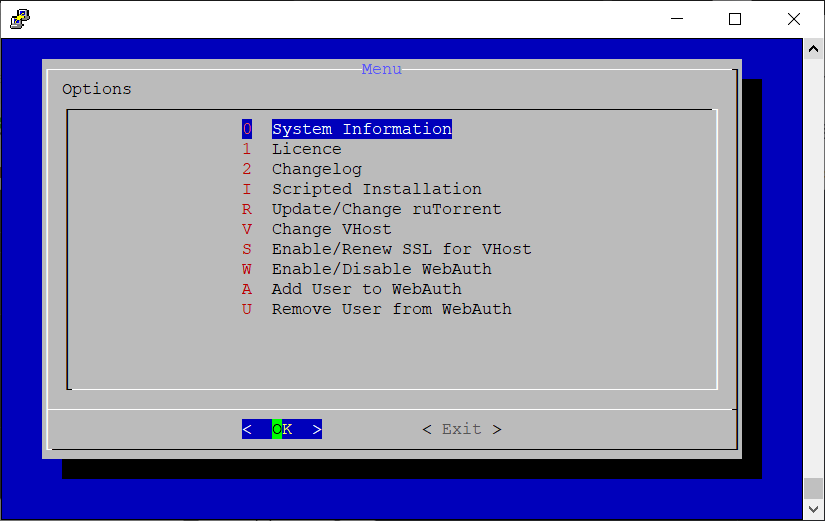
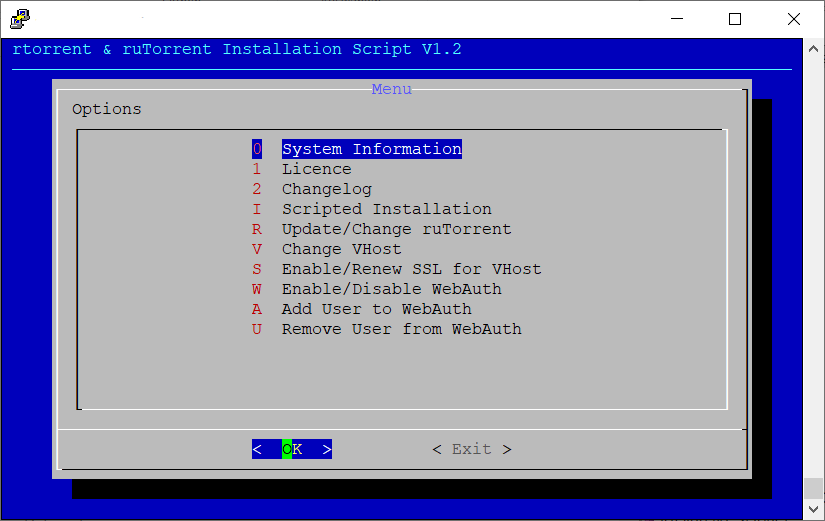
Update to Version 1.2
* Add to Script Version on menu page
* Cleaning the code, made dialog windows more equally
* Add some missing response messages
* Bugfix edit rtorrent.rc (fullmenu)

Changed region(s): [[0.0303, 0.0614, 1.0, 1.0], [0.2727, 0.215, 0.6667, 0.6449]]

diff --git a/README.md b/README.md
@@ -1,5 +1,5 @@
 # rru-torrent-install-script
-A menu based rtorrent &amp; rutorrent script
+A menu based rtorrent &amp; rutorrent installation script
 
 ![Logo](https://github.com/MarkusLange/r_ru-torrent-install-script/blob/main/screenshots/menu.PNG)
 
@@ -12,12 +12,12 @@ make it executable:
 start the GUI with:
 `sudo ./rrutorrent-install-script.bash`
 
-This is the first release of this script and the first of it's kind a GUI based (dialog) installation for rtorrent and rutorrent, this script is losely based on the work of:
+This script is the first of it's kind a GUI based (dialog) installation scrip for rtorrent and rutorrent, it is losely based on the work of:
 - https://github.com/Kerwood/Rtorrent-Auto-Install
 - https://github.com/Bercik1337/rt-auto-install
 - https://github.com/arakasi72/rtinst
 
-This script does not work with the scripts above for upgrades or updates
+This script does not work with the scripts above for upgrades or updates!
 
 ## Features ##
 - GUI
@@ -29,22 +29,22 @@ This script does not work with the scripts above for upgrades or updates
     - Mint
     - Raspbian/Raspberry Pi OS
   - needs only wget and dialog, pre installation
-  - choose present user or add a new one for rtorrent
+  - choose a present user or add a new one for rtorrent
   - script keeps itself actuall (grep users and ruTorrent Version on startup)
-  - Web Authenification can de-/activate on will user can add and remove
+  - Web Authenification can de-/activate on will, user can add and remove
   - SSL support Self Signed or Let's Encrypt
   - HTTP to HTTPS redirection
   - shows installation log
   - script shows actuall changelog from git
+  - will ask by itself for sudo if you start it without
 - ruTorrent
   - ruTorrent can easily updated
-  - add python path to rutorrent to support cloudflare
+  - add python path to rutorrent to support cloudflare (3.9+)
   - did not use deprecated libapache2-mod-scgi
 - rtorrent
   - use of secure open_local instead of open_port from rtorrent with rutorrent (https://github.com/rakshasa/rtorrent/wiki/RPC-Setup-XMLRPC)
   - used latest rtorrent.rc direct from rtorrent github (https://github.com/rakshasa/rtorrent/wiki/CONFIG-Template)
   - used deamon.mode for rtorrent if possible (rtorrent 0.9.7+)
-- more under screenshots
 
 ## To-Do's ##
 - more details
